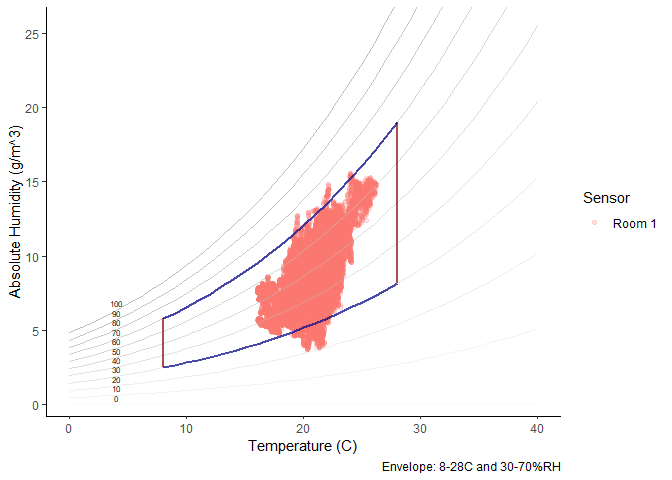
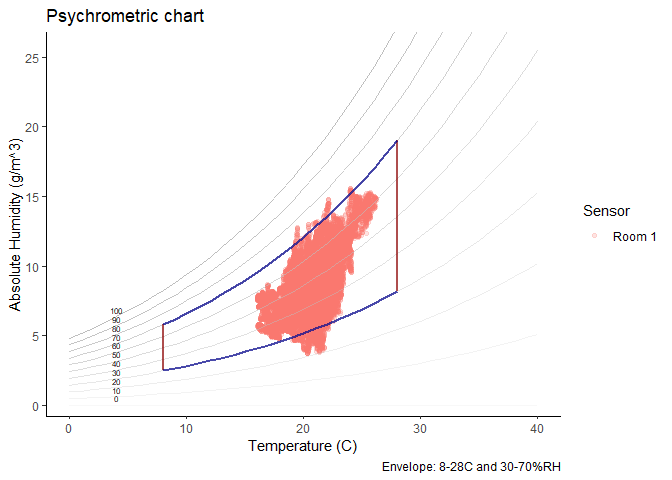
edit

diff --git a/README.md b/README.md
@@ -110,9 +110,8 @@ head(mydata)
 ```
 
 - **Perform calculations on the data**  
-  Use ConSciR functions to add environmental metrics such as dew point
-  (`calcDP`), absolute humidity (`calcAH`), lifetime multiplier
-  (`calcLM`), and preservation index (`calcPI`) to the dataset. More
+  Use ConSciR functions to add metrics such as dew point, absolute
+  humidity, mould, preservation index and others to the dataset. More
   functions are available; see the package
   [Reference](https://bhavshah01.github.io/ConSciR/reference/index.html)
   for details.
@@ -121,20 +120,34 @@ head(mydata)
 # Peform calculations
 head(mydata) |>
   mutate(
+    # Dew point
     DewP = calcDP(Temp, RH), 
+    
+    # Absolute humidity
     Abs = calcAH(Temp, RH), 
-    LifeTime = calcLM(Temp, RH, EA = 100), 
-    PI = calcPI(Temp, RH)
-    )
-#> # A tibble: 6 × 9
-#>   Site   Sensor Date                 Temp    RH  DewP   Abs LifeTime    PI
-#>   <chr>  <chr>  <dttm>              <dbl> <dbl> <dbl> <dbl>    <dbl> <dbl>
-#> 1 London Room 1 2024-01-01 00:00:00  21.8  36.8  6.38  7.05     1.11  45.3
-#> 2 London Room 1 2024-01-01 00:15:00  21.8  36.7  6.34  7.03     1.11  45.4
-#> 3 London Room 1 2024-01-01 00:29:59  21.8  36.6  6.30  7.01     1.11  45.5
-#> 4 London Room 1 2024-01-01 00:44:59  21.7  36.6  6.22  6.97     1.11  46.1
-#> 5 London Room 1 2024-01-01 00:59:59  21.7  36.5  6.18  6.95     1.11  46.2
-#> 6 London Room 1 2024-01-01 01:14:59  21.7  36.2  6.06  6.90     1.11  46.6
+    
+    # Mould risk 
+    Mould = ifelse(RH > calcMould_Zeng(Temp, RH), "Mould risk", "No mould"), 
+    
+    # Preservation Index, years to deterioration 
+    PI = calcPI(Temp, RH), 
+    
+    # Scenario: Humidity if the temperature was 2°C higher
+    RH_if_2C_higher = calcRH_AH(Temp + 2, Abs) 
+    ) |>
+  glimpse()
+#> Rows: 6
+#> Columns: 10
+#> $ Site            <chr> "London", "London", "London", "London", "London", "Lon…
+#> $ Sensor          <chr> "Room 1", "Room 1", "Room 1", "Room 1", "Room 1", "Roo…
+#> $ Date            <dttm> 2024-01-01 00:00:00, 2024-01-01 00:15:00, 2024-01-01 …
+#> $ Temp            <dbl> 21.8, 21.8, 21.8, 21.7, 21.7, 21.7
+#> $ RH              <dbl> 36.8, 36.7, 36.6, 36.6, 36.5, 36.2
+#> $ DewP            <dbl> 6.383970, 6.344456, 6.304848, 6.216205, 6.176529, 6.05…
+#> $ Abs             <dbl> 7.052415, 7.033251, 7.014087, 6.973723, 6.954670, 6.89…
+#> $ Mould           <chr> "No mould", "No mould", "No mould", "No mould", "No mo…
+#> $ PI              <dbl> 45.25849, 45.38181, 45.50580, 46.07769, 46.20393, 46.5…
+#> $ RH_if_2C_higher <dbl> 32.81971, 32.73052, 32.64134, 32.63838, 32.54920, 32.2…
 ```
 
 - **Combine analysis with visualisation**  
@@ -145,8 +158,7 @@ head(mydata) |>
 mydata |>
   mutate(DewPoint = calcDP(Temp, RH)) |>
   graph_TRH() + 
-  geom_line(aes(Date, DewPoint), col = "cyan3") + # add dew point
-  labs(title = "Room 1") +
+  geom_line(aes(Date, DewPoint), col = "cyan3") + # add dew point 
   theme_bw()
 ```
 
@@ -164,7 +176,8 @@ mydata |>
   geom_line(aes(Date, Mould), col = "darkorchid", size = 1) +
   labs(title = "Mould Growth Rate Limits", 
        subtitle = "Mould growth initiates when RH goes above threshold",
-       x = NULL, y = "%rh") + 
+       x = NULL, y = "Humidity (%)") +
+  facet_grid(~Sensor) + 
   theme_classic(base_size = 14)
 ```
 
@@ -174,8 +187,7 @@ mydata |>
   Visualise the data using a psychrometric chart with the function
   `graph_psychrometric()`. The example shows how a basic plot can be
   customised; data transparency, temperature and humidity ranges, and
-  the y-axis function. See the full documentation with
-  `graph_psychrometric`.
+  the y-axis function.
 
 ``` r
 # Customise 
@@ -188,7 +200,8 @@ mydata |>
     HighRH = 70,
     y_func = calcAH
     ) +
-  theme_classic()
+  theme_classic() + 
+  labs(title = "Psychrometric chart")
 ```
 
 <img src="man/figures/README-psychart-1.png" alt="psych_chart" width="100%" />
